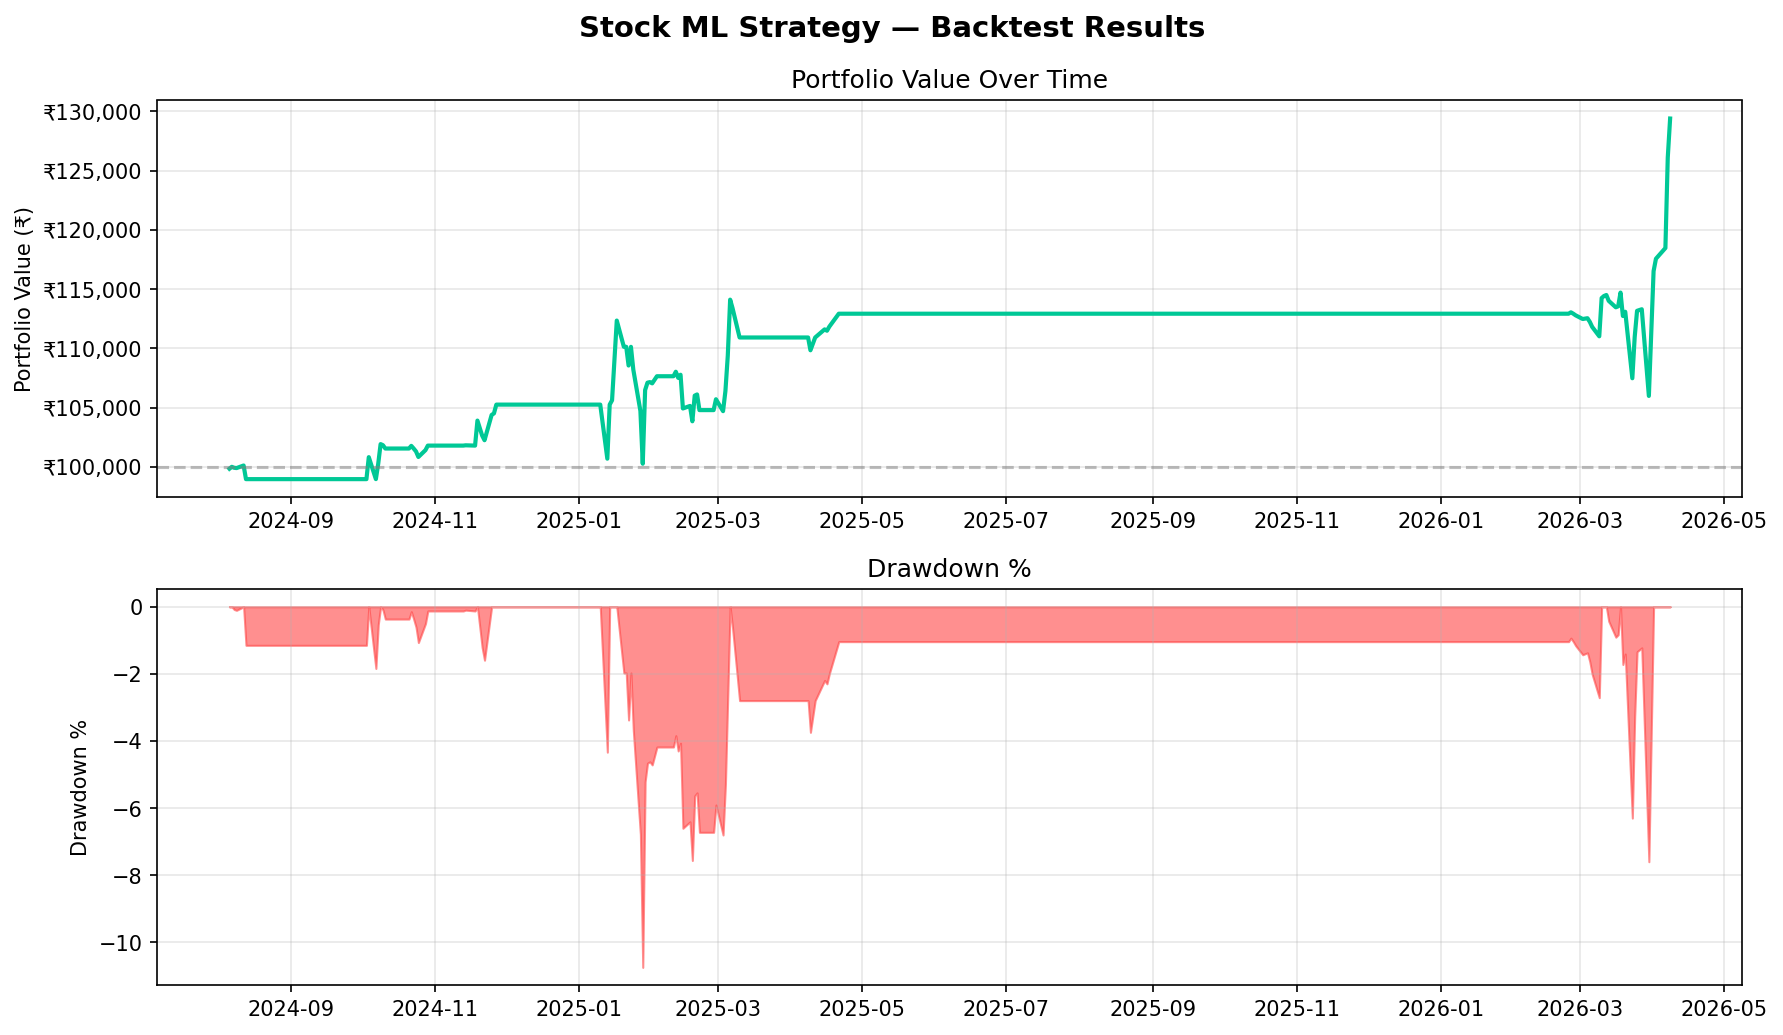
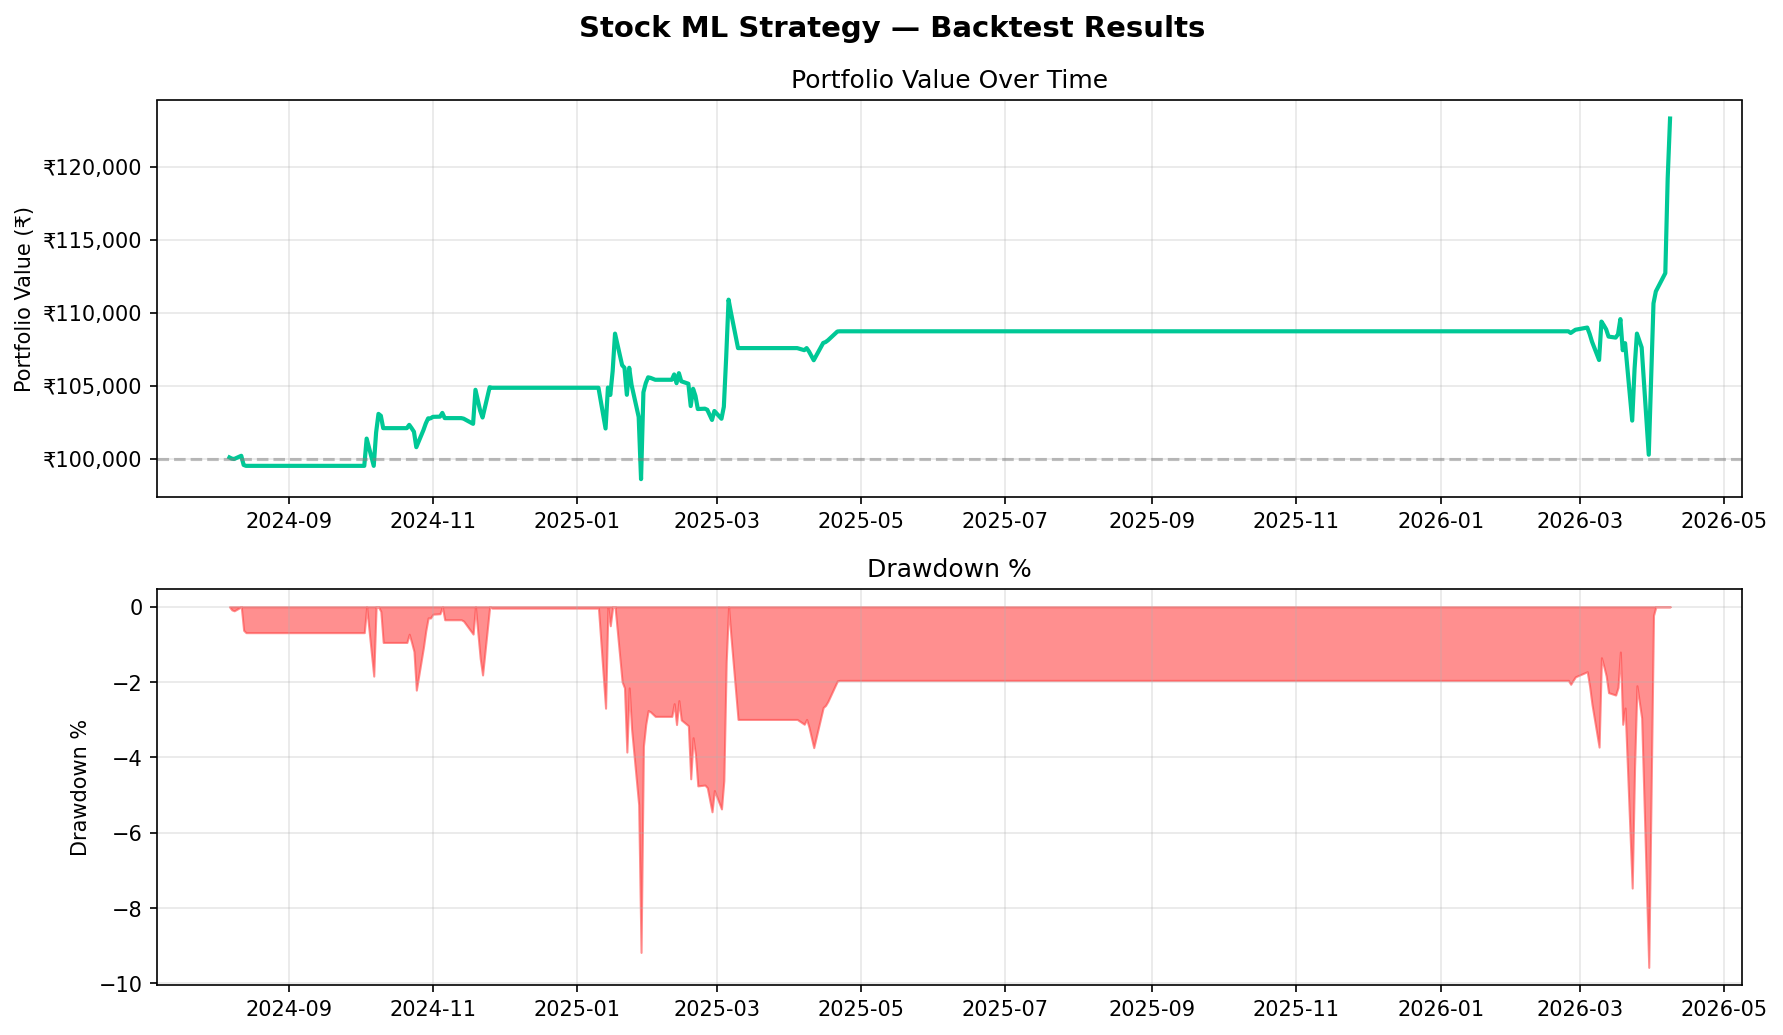
Champion: relative volume + up/down volume ratio

diff --git a/step2_build_features.py b/step2_build_features.py
@@ -85,6 +85,11 @@ def compute_features(df, ticker):
     down_vol_10 = down_vol.rolling(10).sum()
     df['updown_vol_ratio_10'] = np.where(down_vol_10 > 0, up_vol_10 / down_vol_10, np.nan)
 
+    # Volume persistence: % of last 10 days with above-average volume
+    vol_ma20 = df['Volume'].rolling(20).mean()
+    rvol_daily = df['Volume'] / vol_ma20
+    df['vol_persistence_10'] = (rvol_daily > 1.0).rolling(10).mean()
+
     # ── Bollinger Band position ──────────────────────────────────
     bb_mid = df['Close'].rolling(20).mean()
     bb_std = df['Close'].rolling(20).std()
@@ -182,6 +187,7 @@ for i, f in enumerate(csv_files):
         print(f"  ERROR {ticker}: {e}")
 
 print('Added updown_vol_ratio_10')
+print('Added vol_persistence_10')
 
 # ── Combine and save ─────────────────────────────────────────────────────
 full = pd.concat(all_features, ignore_index=False)

diff --git a/walkforward_validation.py b/walkforward_validation.py
@@ -38,7 +38,7 @@ FEATURE_COLS = [
     'ma5_vs_ma20', 'ma10_vs_ma50',
     'rsi_normalized',
     'volatility_5d', 'volatility_20d', 'hl_range',
-    'volume_ratio', 'volume_trend', 'relative_volume', 'updown_vol_ratio_10',
+    'volume_ratio', 'volume_trend', 'relative_volume', 'updown_vol_ratio_10', 'vol_persistence_10',
     'bb_position',
     'up_days_5', 'up_days_10',
     'gap',

diff --git a/step3_train_model.py b/step3_train_model.py
@@ -29,7 +29,7 @@ FEATURE_COLS = [
     'ma5_vs_ma20','ma10_vs_ma50',
     'rsi_normalized',
     'volatility_5d','volatility_20d','hl_range',
-    'volume_ratio','volume_trend','relative_volume','updown_vol_ratio_10',
+    'volume_ratio','volume_trend','relative_volume','updown_vol_ratio_10','vol_persistence_10',
     'bb_position',
     'up_days_5','up_days_10',
     'gap',

diff --git a/WALKFORWARD_REPORT.md b/WALKFORWARD_REPORT.md
@@ -1,6 +1,6 @@
 # Walk-Forward Validation Report
 
-**Generated:** 2026-06-03 10:41:07
+**Generated:** 2026-06-03 11:02:16
 
 ## Summary
 
@@ -19,46 +19,46 @@
 | 2 | 2021-06-15 → 2023-06-14 | 2023-06-22 → 2023-09-21 | 0 | nan | nan | nan | nan |
 | 3 | 2021-09-15 → 2023-09-14 | 2023-09-25 → 2023-12-22 | 0 | nan | nan | nan | nan |
 | 4 | 2021-12-15 → 2023-12-14 | 2023-12-22 → 2024-03-21 | 0 | nan | nan | nan | nan |
-| 5 | 2022-03-15 → 2024-03-14 | 2024-03-22 → 2024-06-21 | 2 | 100.00 | 100.00 | 0.84 | -0.40 |
-| 6 | 2022-06-15 → 2024-06-14 | 2024-06-25 → 2024-09-24 | 72 | 52.78 | 63.89 | 4.57 | -1.03 |
-| 7 | 2022-09-15 → 2024-09-13 | 2024-09-23 → 2024-12-20 | 337 | 63.80 | 60.24 | 6.57 | -3.20 |
-| 8 | 2022-12-15 → 2024-12-13 | 2024-12-23 → 2025-03-21 | 224 | 50.45 | 60.27 | 2.03 | -9.34 |
-| 9 | 2023-03-15 → 2025-03-13 | 2025-03-24 → 2025-06-23 | 42 | 85.71 | 83.33 | 23.29 | -2.49 |
-| 10 | 2023-06-15 → 2025-06-13 | 2025-06-23 → 2025-09-22 | 2 | 100.00 | 100.00 | 0.85 | -0.37 |
-| 11 | 2023-09-15 → 2025-09-12 | 2025-09-22 → 2025-12-19 | 3 | 66.67 | 66.67 | 0.51 | -1.49 |
-| 12 | 2023-12-15 → 2025-12-12 | 2025-12-22 → 2026-03-20 | 430 | 21.40 | 53.02 | -0.72 | -9.54 |
+| 5 | 2022-03-15 → 2024-03-14 | 2024-03-22 → 2024-06-21 | 1 | 100.00 | 100.00 | 0.79 | -0.03 |
+| 6 | 2022-06-15 → 2024-06-14 | 2024-06-25 → 2024-09-24 | 68 | 55.88 | 64.71 | 6.83 | -1.58 |
+| 7 | 2022-09-15 → 2024-09-13 | 2024-09-23 → 2024-12-20 | 343 | 63.56 | 58.31 | 6.32 | -4.64 |
+| 8 | 2022-12-15 → 2024-12-13 | 2024-12-23 → 2025-03-21 | 230 | 49.57 | 57.83 | 7.01 | -9.37 |
+| 9 | 2023-03-15 → 2025-03-13 | 2025-03-24 → 2025-06-23 | 38 | 84.21 | 81.58 | 22.16 | -2.16 |
+| 10 | 2023-06-15 → 2025-06-13 | 2025-06-23 → 2025-09-22 | 1 | 100.00 | 100.00 | 0.13 | -0.27 |
+| 11 | 2023-09-15 → 2025-09-12 | 2025-09-22 → 2025-12-19 | 7 | 57.14 | 57.14 | 0.33 | -1.81 |
+| 12 | 2023-12-15 → 2025-12-12 | 2025-12-22 → 2026-03-20 | 449 | 22.05 | 50.33 | -3.75 | -11.64 |
 
 ## Average metrics
 
-- Average trade count: **92.7**
-- Average win rate: **67.60%**
-- Average prediction success rate: **73.43%**
-- Average portfolio return: **4.74%**
-- Average max drawdown: **-3.48%**
+- Average trade count: **94.8**
+- Average win rate: **66.55%**
+- Average prediction success rate: **71.24%**
+- Average portfolio return: **4.98%**
+- Average max drawdown: **-3.94%**
 
 ## Standard deviation
 
-- Trade count stddev: **151.5**
-- Win rate stddev: **26.97%**
-- Prediction success stddev: **18.56%**
-- Portfolio return stddev: **7.86%**
-- Max drawdown stddev: **3.80%**
+- Trade count stddev: **156.8**
+- Win rate stddev: **26.81%**
+- Prediction success stddev: **19.95%**
+- Portfolio return stddev: **7.96%**
+- Max drawdown stddev: **4.33%**
 
 ## Best fold
 
 - Fold **9**: 2023-03-15 → 2025-03-13 train, 2025-03-24 → 2025-06-23 test
-- Portfolio return: **23.29%**
-- Win rate: **85.71%**
-- Prediction success: **83.33%**
-- Max drawdown: **-2.49%**
+- Portfolio return: **22.16%**
+- Win rate: **84.21%**
+- Prediction success: **81.58%**
+- Max drawdown: **-2.16%**
 
 ## Worst fold
 
 - Fold **12**: 2023-12-15 → 2025-12-12 train, 2025-12-22 → 2026-03-20 test
-- Portfolio return: **-0.72%**
-- Win rate: **21.40%**
-- Prediction success: **53.02%**
-- Max drawdown: **-9.54%**
+- Portfolio return: **-3.75%**
+- Win rate: **22.05%**
+- Prediction success: **50.33%**
+- Max drawdown: **-11.64%**
 
 ## Overall assessment
 
